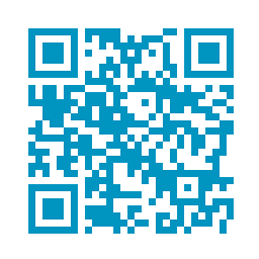
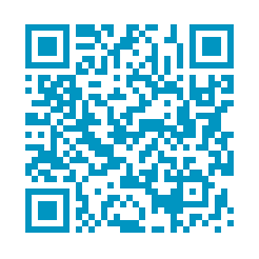
update qrcode with mobile version

diff --git a/cooperapp.py b/cooperapp.py
@@ -28,8 +28,20 @@ class MainPage(webapp2.RequestHandler):
         path = os.path.join(os.path.dirname(__file__), 'index.html')
         self.response.out.write(template.render(path, template_values))
 
+
+class MobilePage(webapp2.RequestHandler):
+    # render index.html
+    def get(self):
+        template_values = {
+            'title' : "CooperApp"
+        }
+
+        path = os.path.join(os.path.dirname(__file__),'mobile.html')
+        self.response.out.write(template.render(path, template_values))
+
 application = webapp2.WSGIApplication([
     ('/', MainPage),
+    ('/mobile', MobilePage),
 ], debug=True)
 
 endpointsapp = endpoints.api_server([CooperApi], restricted=False)
